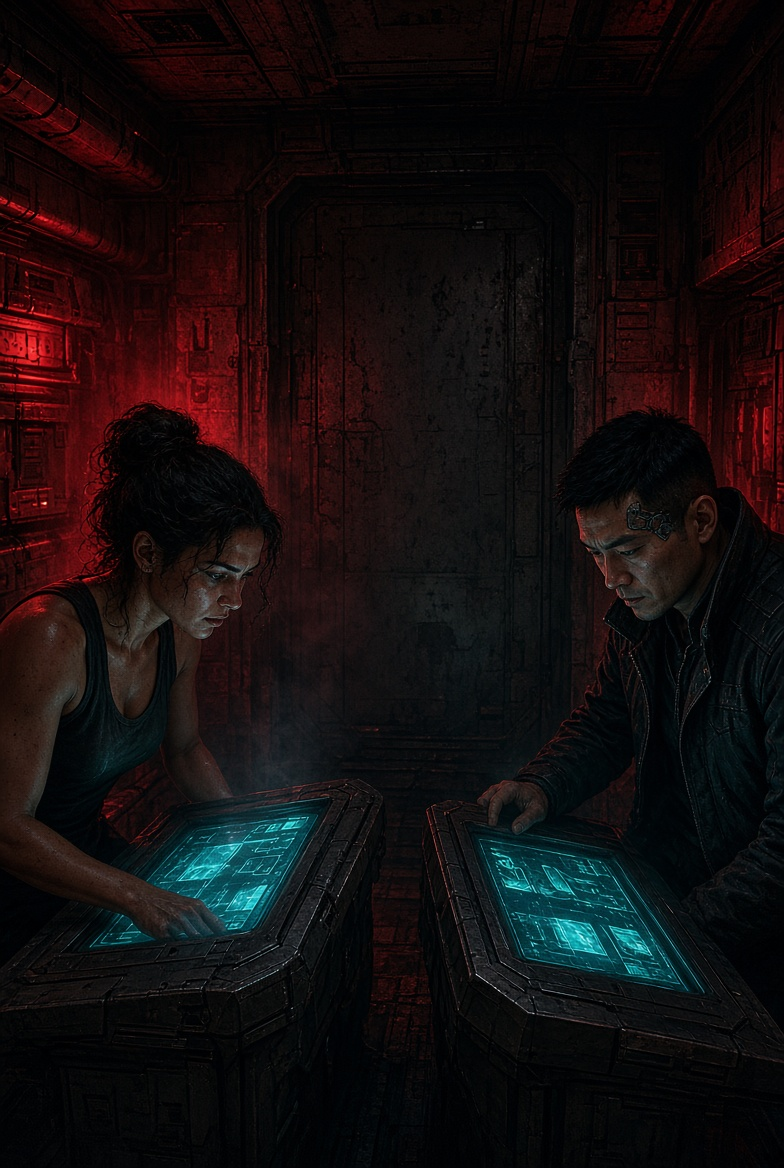
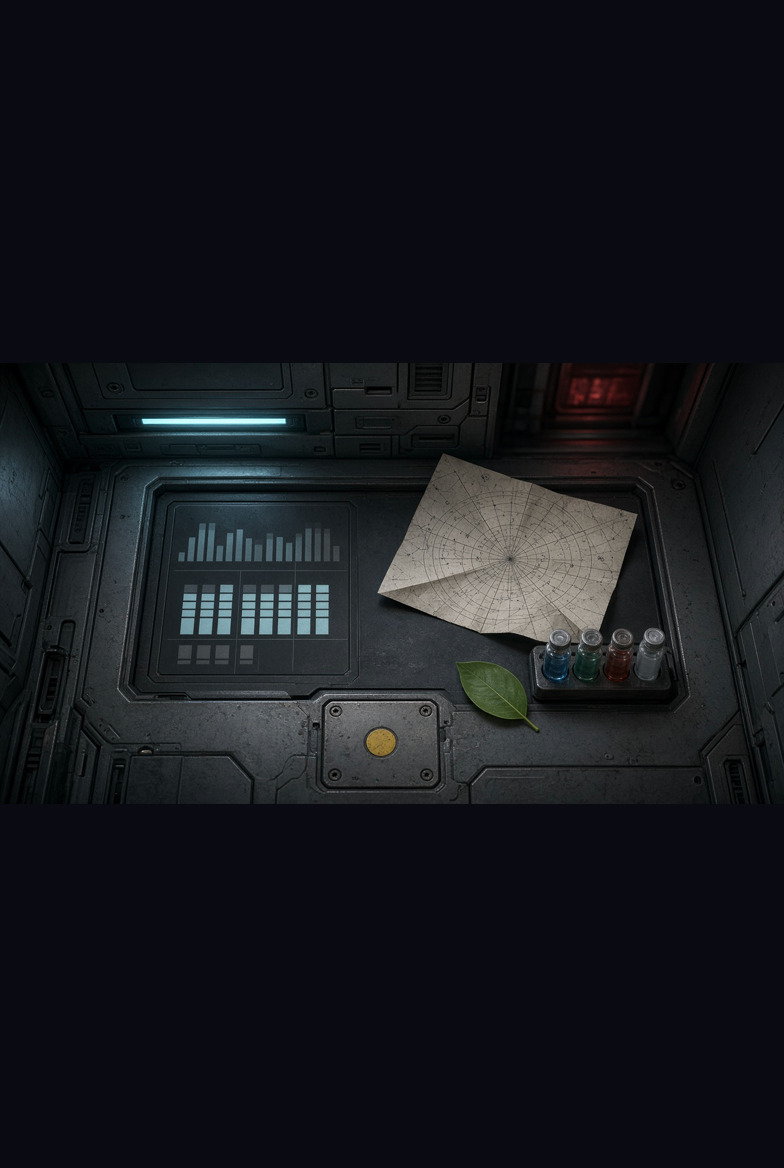
SUN-COMPETENCE-WATCH-WIRE-01: wire competence_watch.jpg + remap
Replace images/competence_watch.jpg from APPROVED HITL v1 (hex16
ac902af751e81d56); remap sceneImages.competence_watch only.
Leave observation_bridge_alt.jpg and lead_together mapping intact.
Bump ART-R2 / playtest-art-event-audit IMAGES_TREE locks.

diff --git a/src/state.js b/src/state.js
@@ -101,7 +101,7 @@ const sceneImages = {
   bond_elias:       "images/bond_elias.jpg",
   bond_tomas:       "images/bond_tomas.jpg",
   bond_jiro:        "images/bond_jiro.jpg",
-  competence_watch: "images/observation_bridge_alt.jpg",
+  competence_watch: "images/competence_watch.jpg",
   crew_walk:       "images/corridor_pressure_4.jpg",
   lead_prompt:     "images/lead_prompt.jpg",
   lead_together:   "images/observation_bridge_alt.jpg",

diff --git a/docs/SUN_COMPETENCE_WATCH_WIRE_01.md b/docs/SUN_COMPETENCE_WATCH_WIRE_01.md
@@ -1,0 +1,13 @@
+# SUN-COMPETENCE-WATCH-WIRE-01
+
+- event: `competence_watch` → `images/competence_watch.jpg` (NEW plate; remap in `src/state.js`)
+- plate: owner APPROVED + Canon PASS (plate + wire path) 2026-09-19 ~12:35 PM CT
+- source hex16 (PNG HITL v1): `ac902af751e81d56` · 784×1168 · brief#3
+- tip base: `f97520dff1ea` (`version/0.30.1-main-reconcile-ci.1`, includes PR295 lead_together)
+- **DO NOT** touch `images/observation_bridge_alt.jpg` — `lead_together` stays mapped there
+- no 0.36 mint · no Netlify remint (parent remints separately if needed)
+
+## Images tree lock bump
+After replacing `competence_watch.jpg`, `git rev-parse HEAD:images` = `5cc81a2d691164fe1f1aef24ecb036bf61a2fae0` (was `5052d8b58d40126f41551731897c24344236e7ac`).
+ART-R2 / playtest-art-event-audit IMAGES_TREE constants updated to match. Locked per-plate sha256s for ART-R2 cluster unchanged.
+`observation_bridge_alt.jpg` blob unchanged (`2a3d8b1661d439d642056357893fa8a64adf47fd`).
